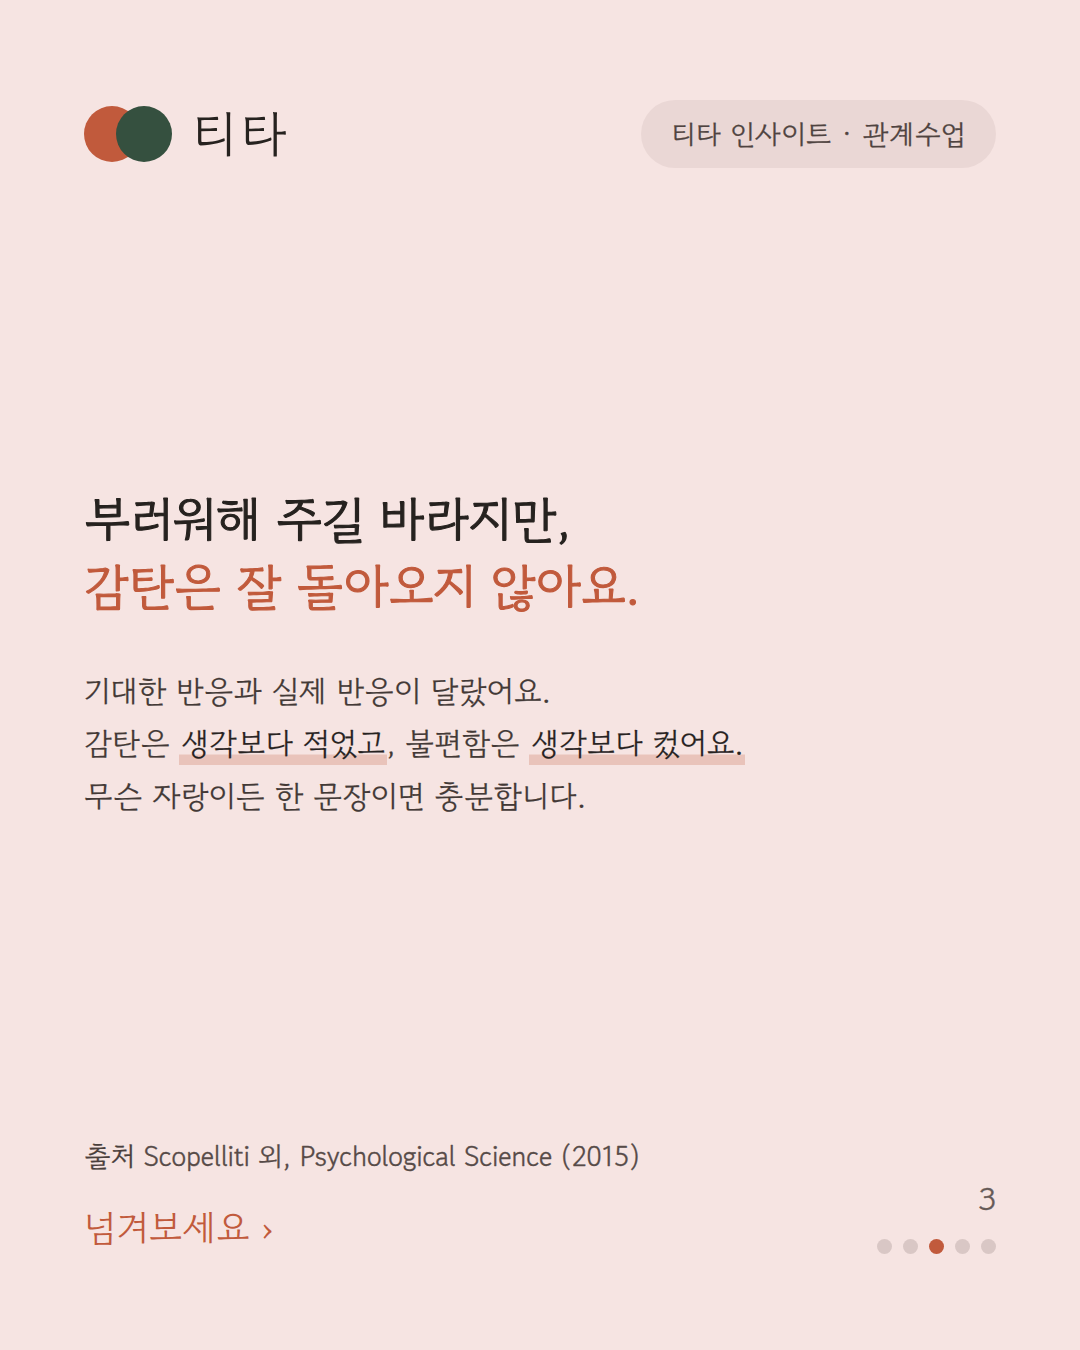
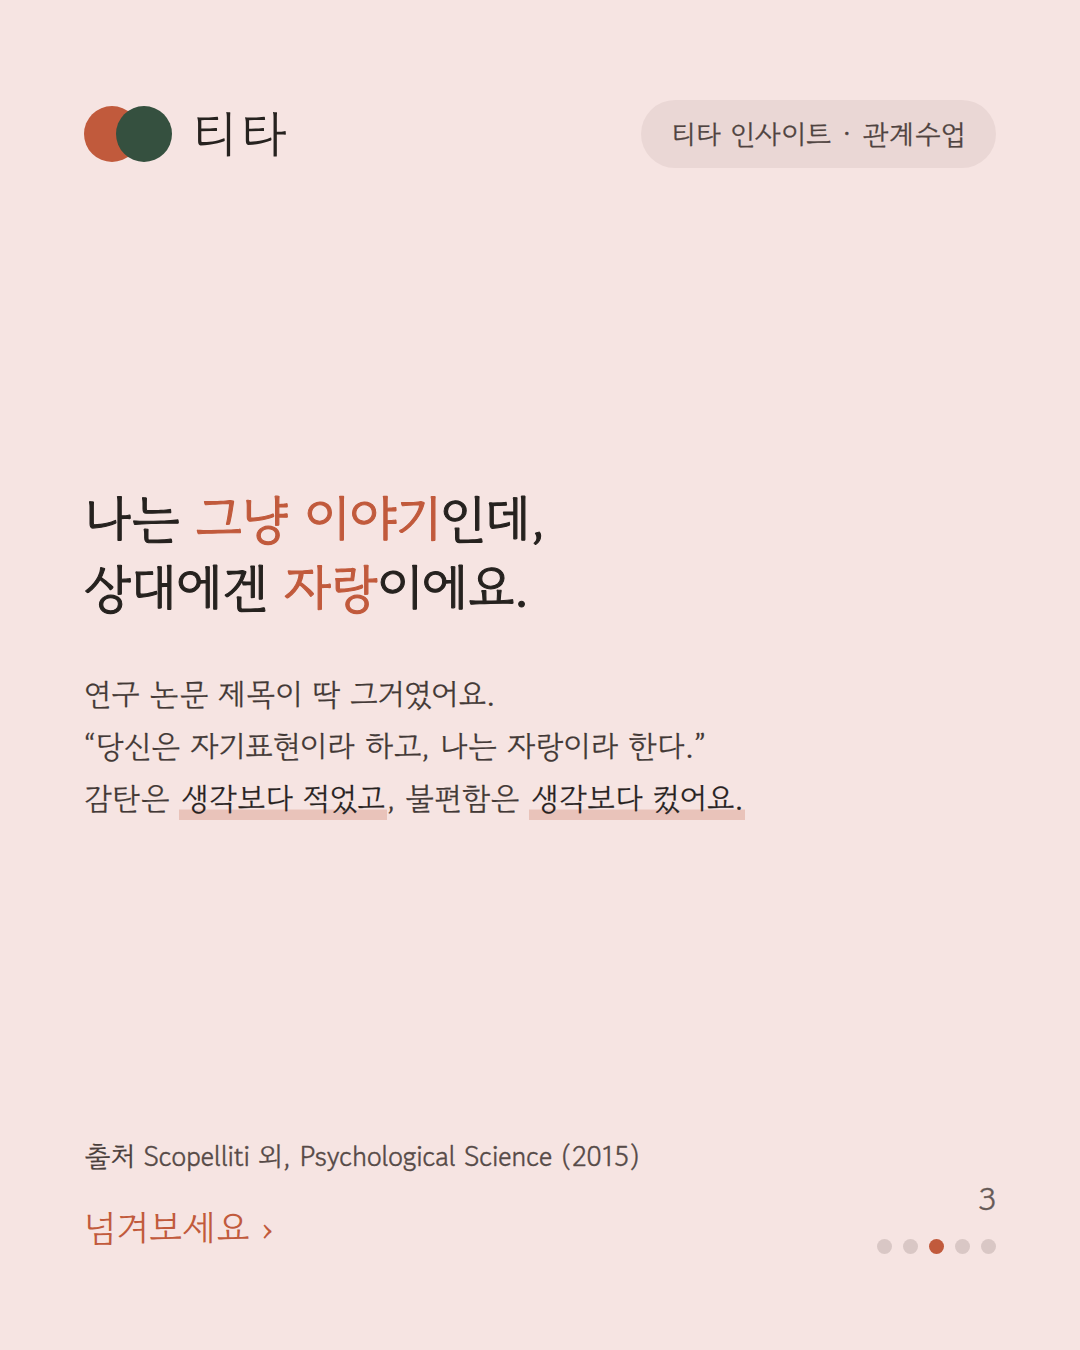
edit(blog): 자랑이라 부르지 않는 사람에게 가 닿게 한다
"무슨 자랑이든"이라고 쓰면 정작 그렇게 말하는 사람이 자기 얘기로 받지
않는다. 스스로는 그걸 자랑이라 부르지 않기 때문이다. 그냥 있었던 일을
말하는 것이고, 물어보니까 답하는 것이고, 설명이 필요해서 덧붙이는 것이다.

그런데 인용한 연구의 논문 제목이 정확히 그 이야기다.

  You Call It "Self-Exuberance"; I Call It "Bragging"
  당신은 그것을 자기표현이라 부르고, 나는 자랑이라 부른다

이름표가 다르다는 것 자체를 앞세우면, "나는 자랑 안 하는데" 하는 독자가
바로 자기 얘기로 읽는다. 소제목을 "나는 그냥 이야기인데, 상대에겐
자랑입니다"로 바꾸고 논문 제목을 인용으로 세웠다.

맺음도 따라 바꿨다. "대단해 보이려고 보탠 만큼" → "내가 어떤 이름으로
부르든, 길어지는 만큼 상대에게는 다른 이름으로 남는다".

Claude-Session: https://claude.ai/code/session_01SVoaR1M7XWjiBzTKquaj1d

Changed region(s): [[0.0611, 0.4978, 0.7028, 0.6222], [0.0611, 0.3733, 0.5806, 0.4667]]

diff --git a/src/app/blog/posts.ts b/src/app/blog/posts.ts
@@ -117,7 +117,7 @@ export const POSTS: BlogPost[] = [
         type: "callout",
         text: "꾸민 자리는 대개 꾸민 티가 납니다. 그리고 남는 인상은 내용이 아니라 그 티입니다.",
       },
-      { type: "h2", text: "부러워해 주길 바라지만, 감탄은 잘 돌아오지 않습니다" },
+      { type: "h2", text: "나는 그냥 이야기인데, 상대에겐 자랑입니다" },
       {
         type: "image",
         src: "/blog/insight-13/card-3.png",
@@ -126,11 +126,19 @@ export const POSTS: BlogPost[] = [
       },
       {
         type: "p",
-        text: "살아온 이력, 해낸 일, 형편이 나쁘지 않다는 것. 자리에 앉으면 어떤 식으로든 그런 이야기가 나옵니다. 솔직히 그냥 알리고 싶어서만은 아닙니다. **조금 대단해 보이고 싶고, 부러워해 주면 좋겠다는 마음**이 섞여 있습니다. 저도 그렇습니다.",
+        text: "여기서 한 가지 짚고 갈 게 있습니다. 우리는 자기가 하는 말을 **자랑이라고 생각하지 않습니다.** 그냥 있었던 일을 말하는 것이고, 물어보니까 답하는 것이고, 설명이 필요해서 덧붙이는 것입니다.",
       },
       {
         type: "p",
-        text: "아이린 스코펠리티 연구팀(카네기멜런대·런던시티대)은 2015년 **심리과학(Psychological Science)** 에 실린 연구에서 이걸 양쪽에 물어봤습니다. 자기 이야기를 꺼낸 사람에게는 “상대가 어떻게 느낄 것 같으냐”고, 그 말을 들은 사람에게는 “실제로 어떻게 느꼈느냐”고요.",
+        text: "그런데 듣는 쪽이 붙이는 이름표는 다릅니다. 아이린 스코펠리티 연구팀(카네기멜런대·런던시티대)이 2015년 **심리과학(Psychological Science)** 에 실은 논문의 제목이 정확히 그 이야기입니다.",
+      },
+      {
+        type: "quote",
+        text: "당신은 그것을 ‘자기표현’이라 부르고, 나는 ‘자랑’이라 부른다.",
+      },
+      {
+        type: "p",
+        text: "연구팀은 양쪽에 물었습니다. 자기 이야기를 꺼낸 사람에게는 “상대가 어떻게 느낄 것 같으냐”고, 그 말을 들은 사람에게는 “실제로 어떻게 느꼈느냐”고요.",
       },
       {
         type: "p",
@@ -142,7 +150,7 @@ export const POSTS: BlogPost[] = [
       },
       {
         type: "p",
-        text: "그러니 힘줘서 길게 말할 이유가 없습니다. 대단해 보이려고 보탠 만큼이 그대로 남지 않으니까요. **무슨 자랑이든 한 문장이면 충분합니다.** 그다음은 상대에게 물어보는 편이 낫습니다. 그게 오히려 오래 기억됩니다.",
+        text: "그러니 굳이 길게 말할 이유가 없습니다. 내가 어떤 이름으로 부르든, 길어지는 만큼 상대에게는 다른 이름으로 남으니까요. **한 문장이면 충분합니다.** 그다음은 상대에게 물어보는 편이 낫습니다. 그게 오히려 오래 기억됩니다.",
       },
       { type: "h2", text: "남 이야기는 그 사람이 아니라 나에게 남습니다" },
       {
